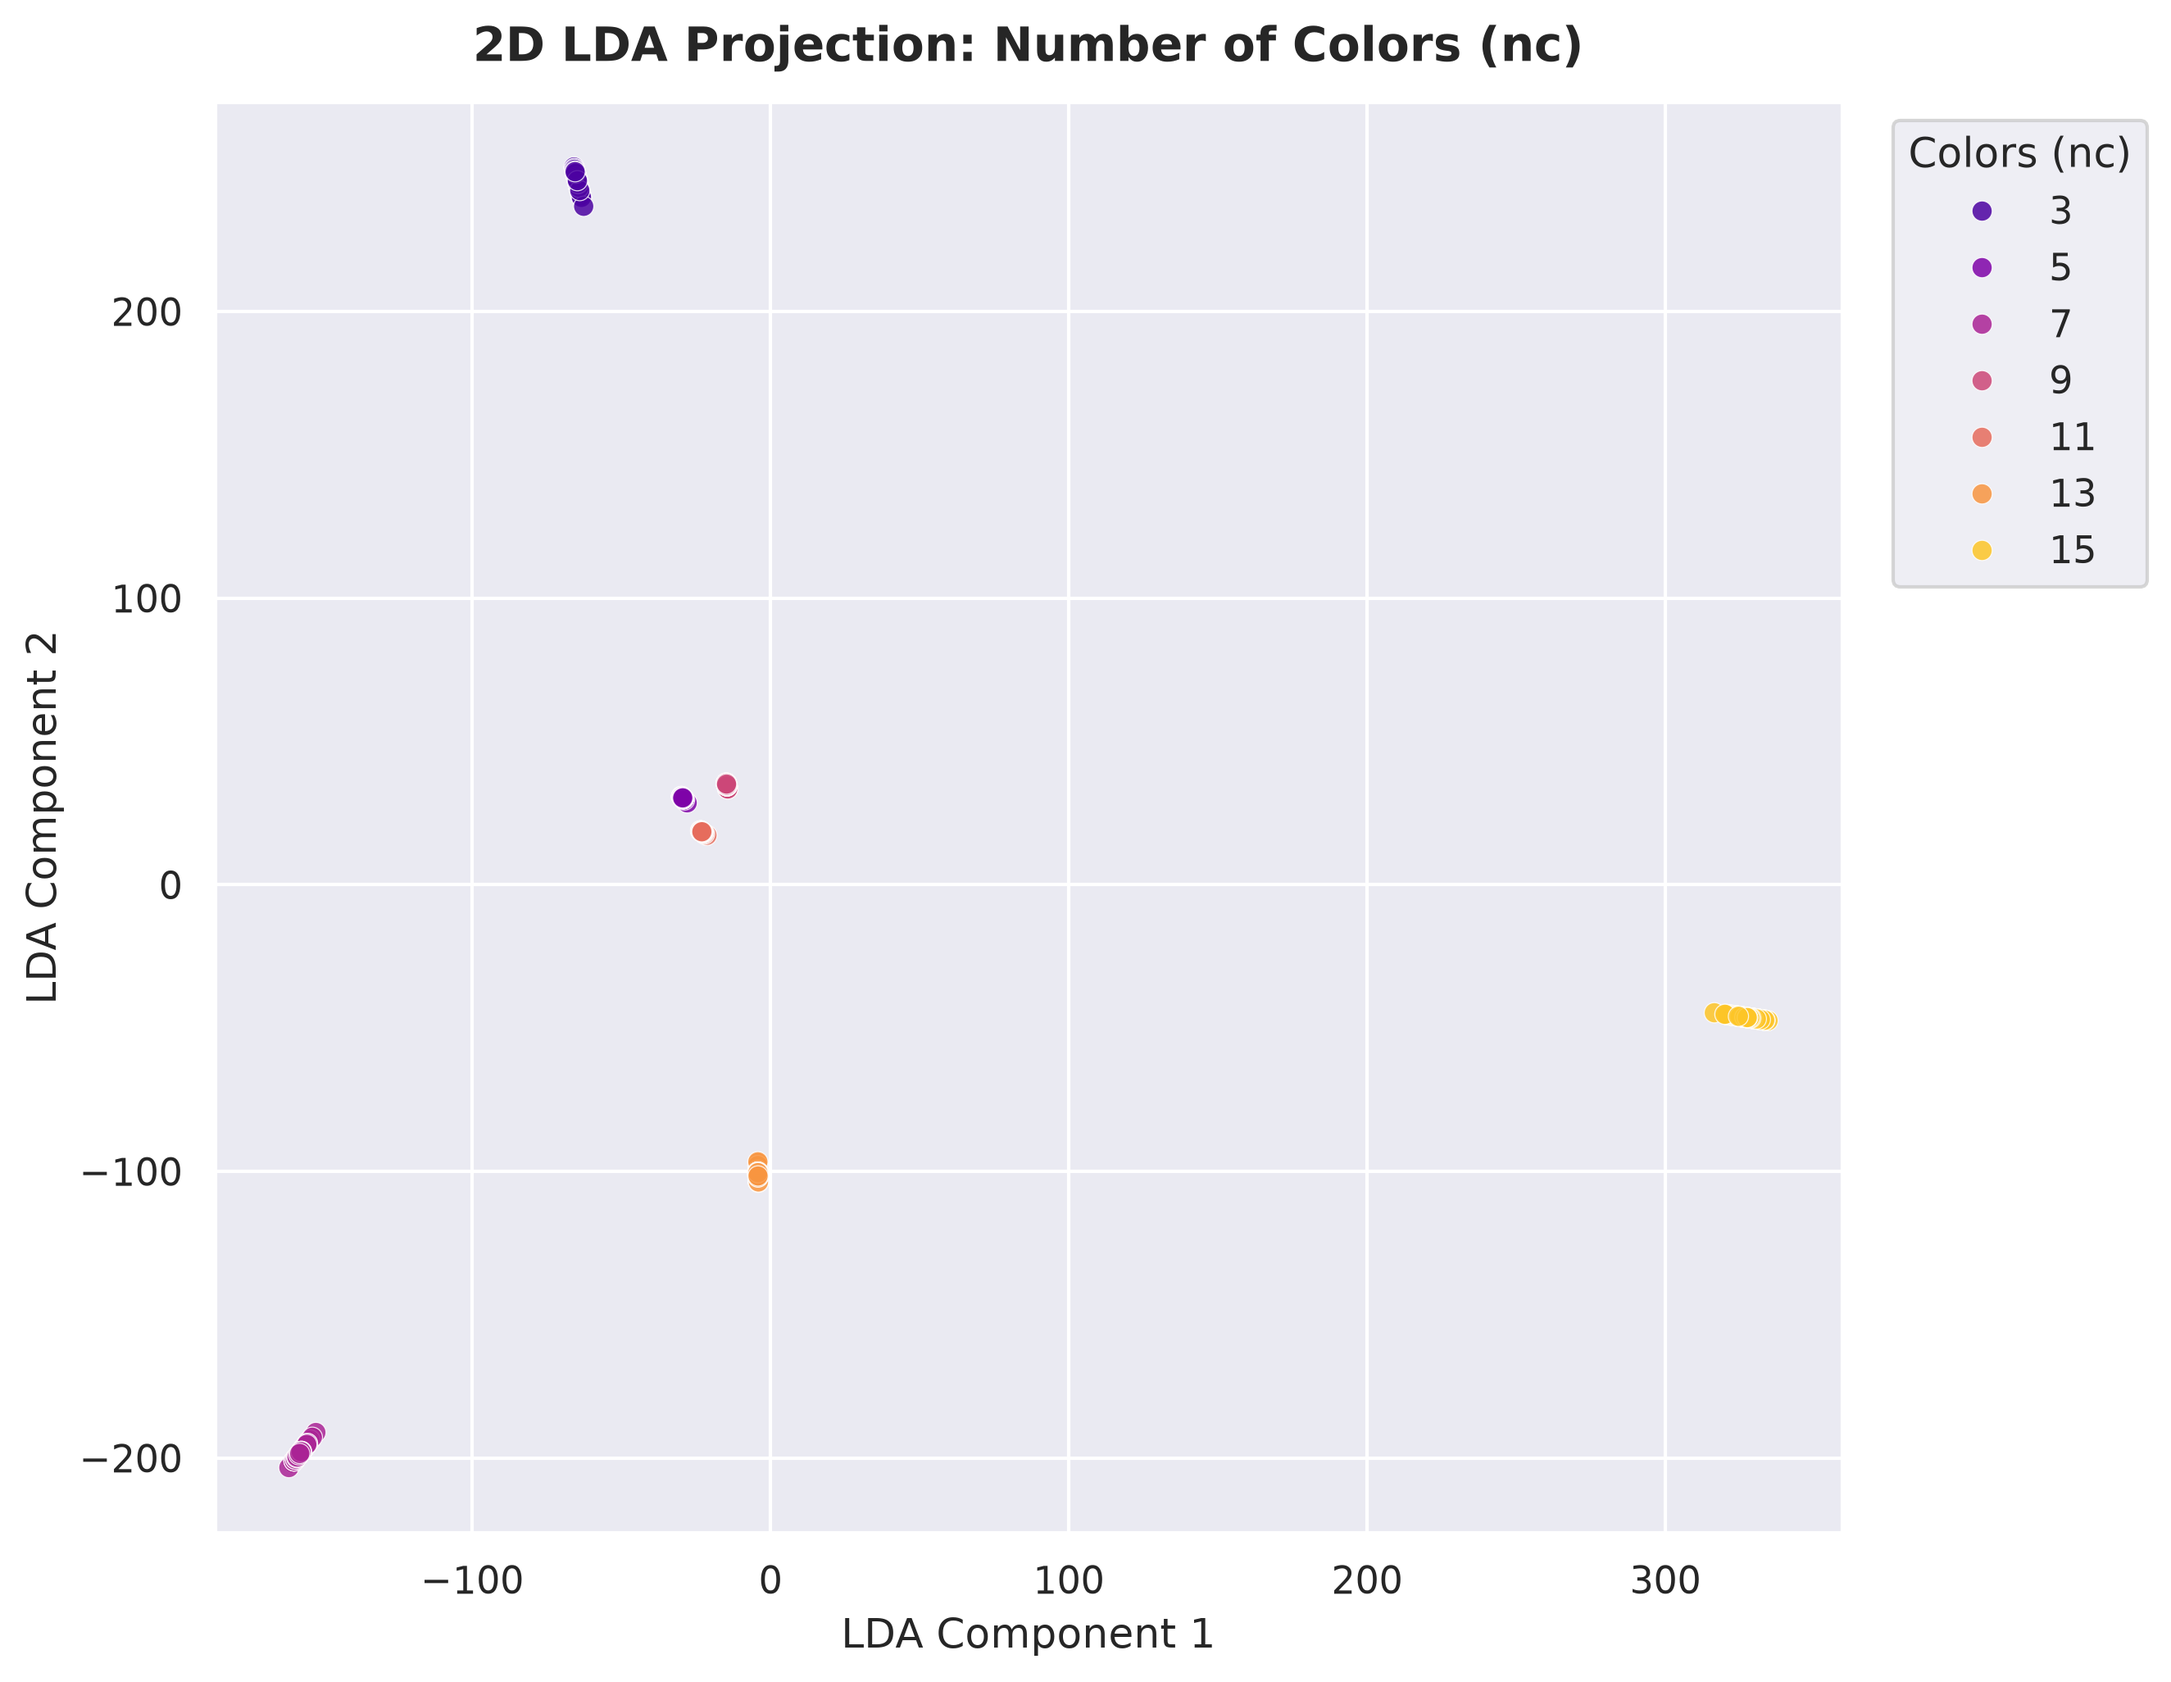
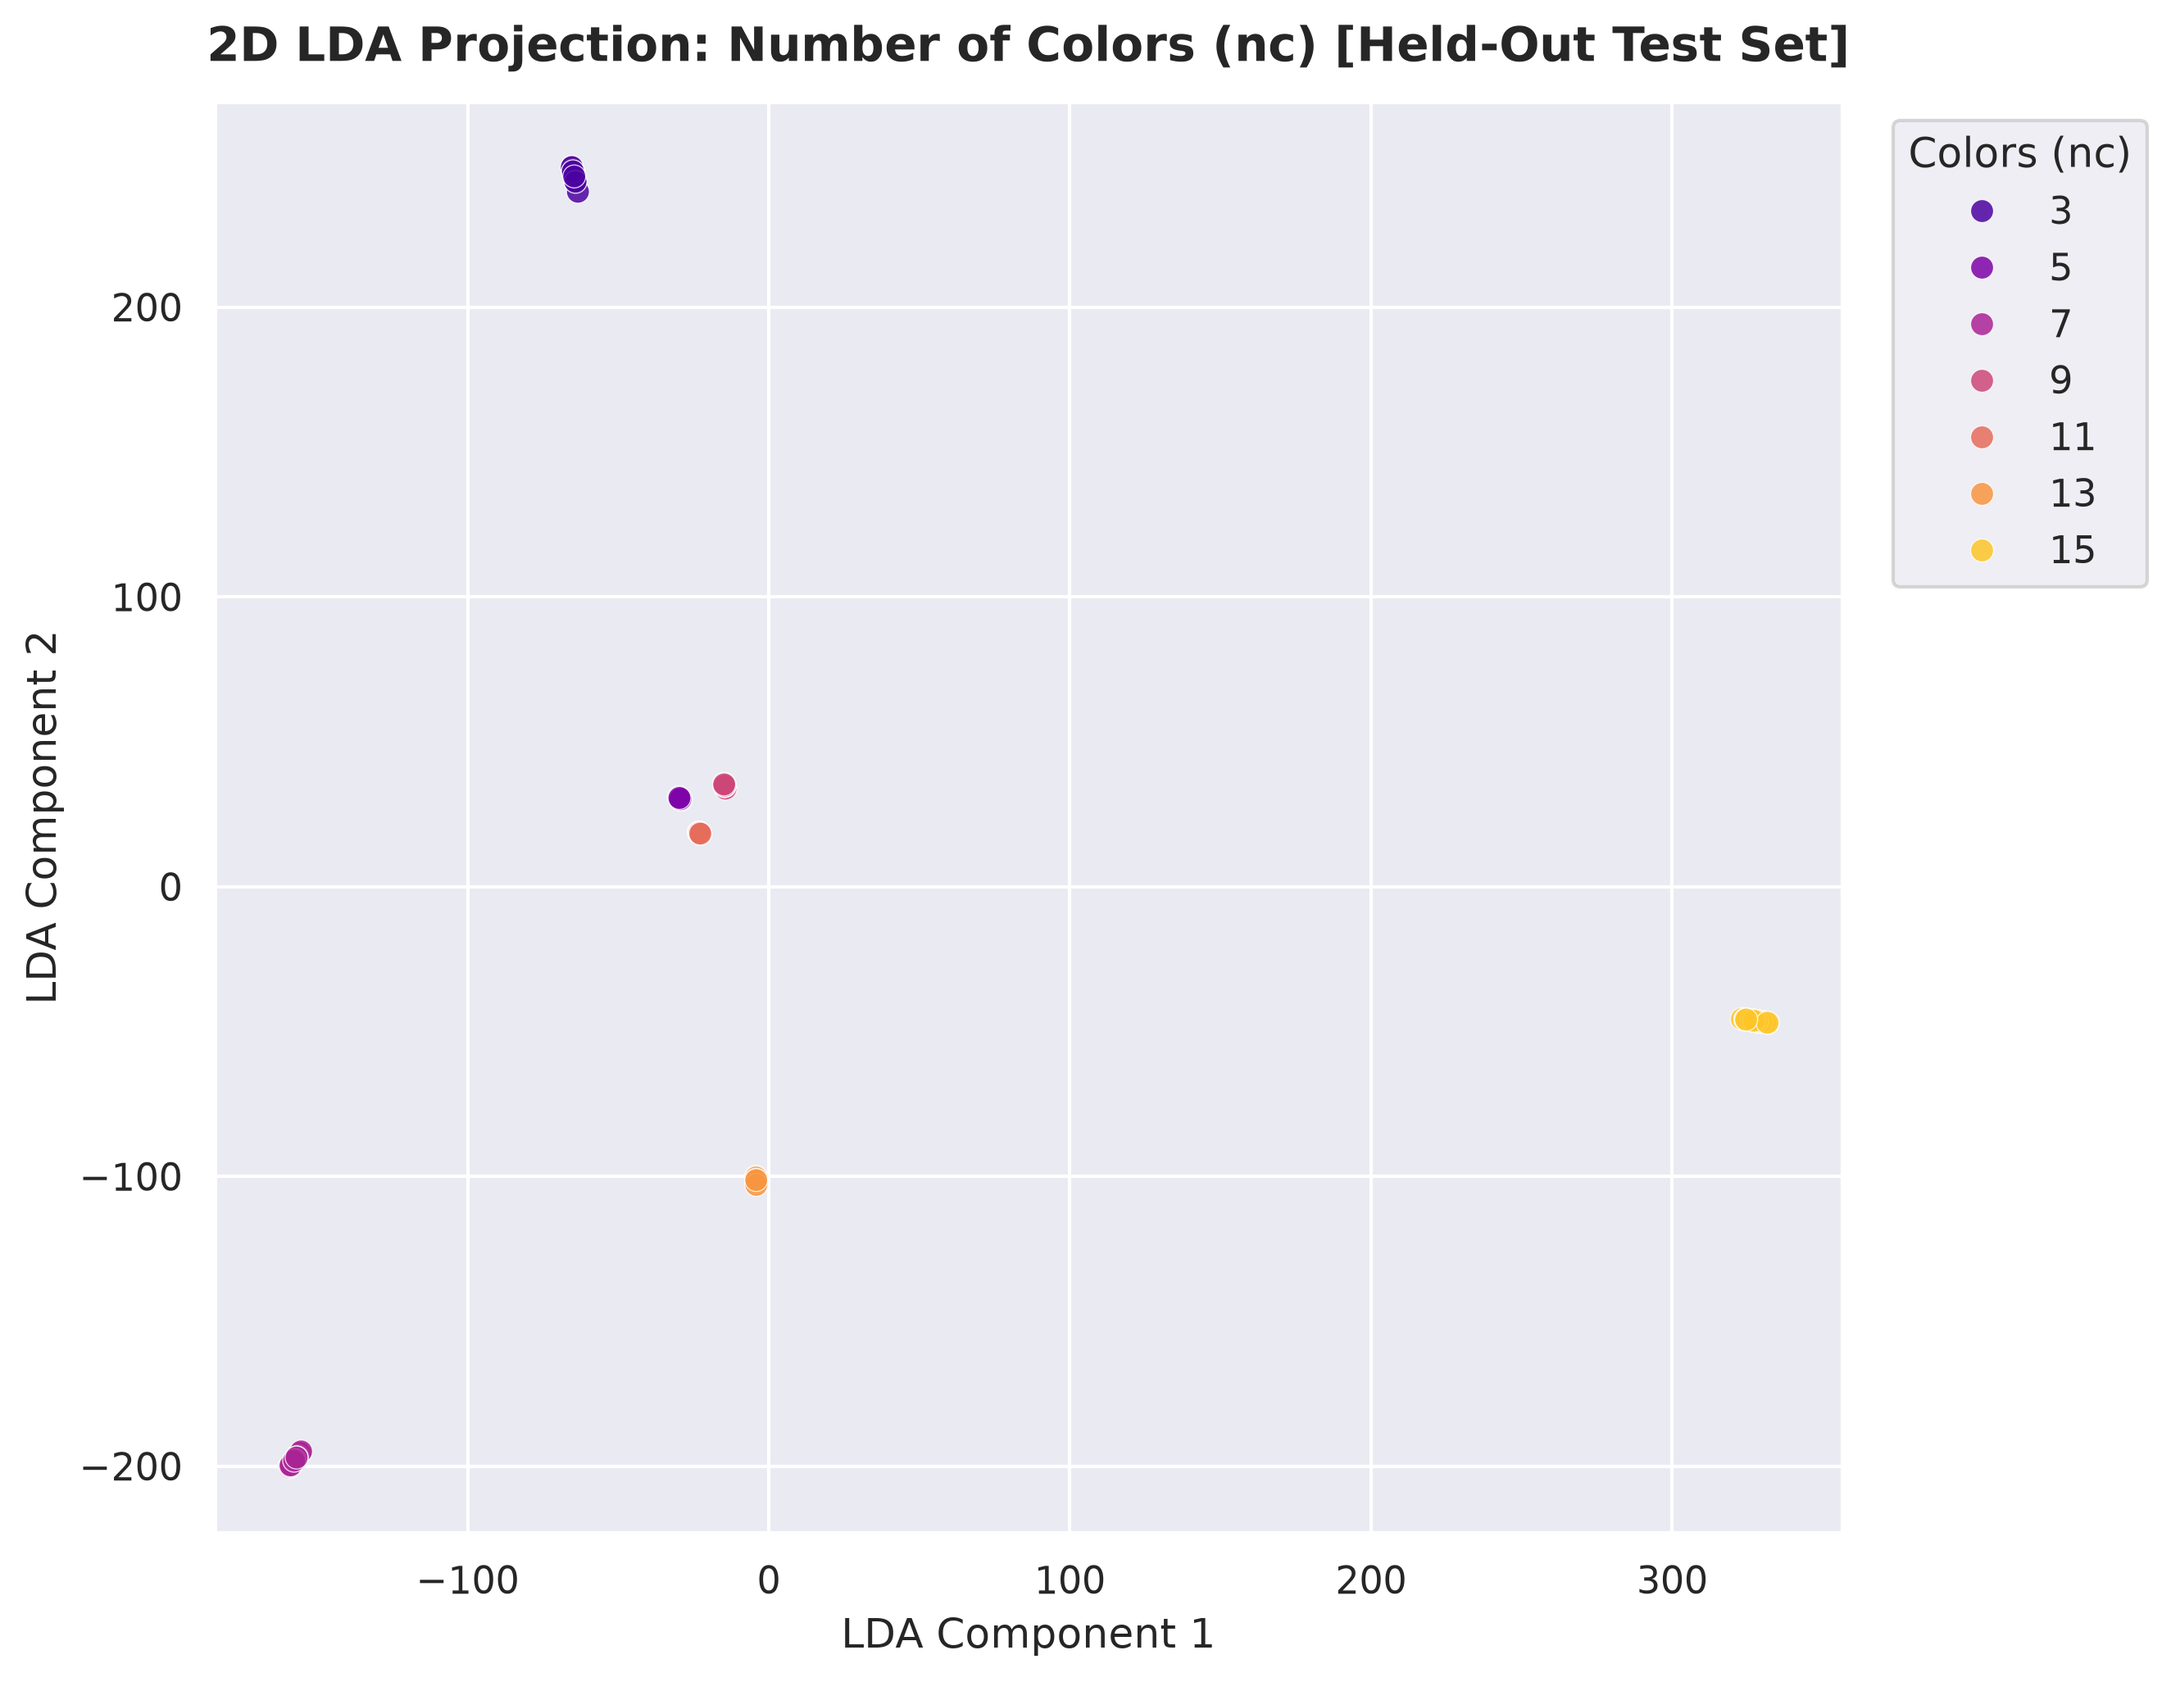
new images

diff --git a/src/plot_lda_scatter.py b/src/plot_lda_scatter.py
@@ -65,11 +65,14 @@ def generate_plots():
     tokenizer = train_and_get_tokenizer()
 
     graph_dir = "data/graphs" if os.path.exists("data/graphs") else "graphs"
+    test_graph_dir = "data/test_graphs" if os.path.exists("data/test_graphs") else "test_graphs"
     output_dir = "data/outputs" if os.path.exists("data/outputs") else "."
     os.makedirs(output_dir, exist_ok=True)
 
-    graph_files = [os.path.join(graph_dir, f) for f in sorted(os.listdir(graph_dir)) if f.endswith(".graph")][:2500]
-    sample_g = load_graph_to_features(graph_files[0])
+    train_files = [os.path.join(graph_dir, f) for f in sorted(os.listdir(graph_dir)) if f.endswith(".graph")][:2500]
+    test_files = [os.path.join(test_graph_dir, f) for f in sorted(os.listdir(test_graph_dir)) if f.endswith(".graph")][:1000]
+
+    sample_g = load_graph_to_features(train_files[0])
     
     model = GraphToTextConditionalGeneration(
         len(sample_g["x"][0]), 
@@ -84,34 +87,46 @@ def generate_plots():
     model, _, _, _, _, _ = load_checkpoint(model_path, model, None, None)
     model.eval()
 
-    print("Extracting encoder embeddings for 2,500 graphs...")
-    X, y_sat, y_nv, y_nc = extract_dataset_embeddings(graph_files, model, device)
+    print("Extracting encoder embeddings for 2,500 training graphs...")
+    X_train, y_sat_tr, y_nv_tr, y_nc_tr = extract_dataset_embeddings(train_files, model, device)
 
-    print("Fitting LDA projections...")
+    print("Extracting encoder embeddings for held-out test graphs...")
+    X_test, y_sat_te, y_nv_te, y_nc_te = extract_dataset_embeddings(test_files, model, device)
+
+    print("Fitting LDA projections on training set and projecting held-out test set...")
 
     # 1. LDA Projection for Number of Colors (nc)
     lda_nc = LinearDiscriminantAnalysis(n_components=2)
-    X_nc_2d = lda_nc.fit_transform(X, y_nc)
+    lda_nc.fit(X_train, y_nc_tr)
+    X_nc_2d = lda_nc.transform(X_test)
 
     # 2. LDA Projection for Number of Vertices (nv)
     lda_nv = LinearDiscriminantAnalysis(n_components=2)
-    X_nv_2d = lda_nv.fit_transform(X, y_nv)
+    lda_nv.fit(X_train, y_nv_tr)
+    X_nv_2d = lda_nv.transform(X_test)
 
     # 3. LDA Projection for Satisfiability (sat)
     lda_sat = LinearDiscriminantAnalysis(n_components=1)
-    ld1_sat = lda_sat.fit_transform(X, y_sat).flatten()
+    lda_sat.fit(X_train, y_sat_tr)
+    ld1_sat = lda_sat.transform(X_test).flatten()
     pca = PCA(n_components=2)
-    X_pca = pca.fit_transform(X)
+    pca.fit(X_train)
+    X_pca = pca.transform(X_test)
     X_sat_2d = np.column_stack((ld1_sat, X_pca[:, 1]))
+
+    # Use test set labels for plotting
+    y_nc = y_nc_te
+    y_nv = y_nv_te
+    y_sat = y_sat_te
 
     # Plot 1: Number of Colors (nc)
     plt.figure(figsize=(9, 7), dpi=300)
     palette_nc = sns.color_palette("plasma", n_colors=len(np.unique(y_nc)))
     scatter_nc = sns.scatterplot(
         x=X_nc_2d[:, 0], y=X_nc_2d[:, 1], hue=y_nc, palette=palette_nc,
-        s=35, alpha=0.85, edgecolor='w', linewidth=0.3
+        s=45, alpha=0.85, edgecolor='w', linewidth=0.3
     )
-    plt.title("2D LDA Projection: Number of Colors (nc)", fontsize=14, fontweight='bold', pad=12)
+    plt.title("2D LDA Projection: Number of Colors (nc) [Held-Out Test Set]", fontsize=14, fontweight='bold', pad=12)
     plt.xlabel("LDA Component 1", fontsize=12)
     plt.ylabel("LDA Component 2", fontsize=12)
     plt.legend(title="Colors (nc)", bbox_to_anchor=(1.02, 1), loc='upper left', frameon=True)
@@ -126,9 +141,9 @@ def generate_plots():
     palette_nv = sns.color_palette("viridis", n_colors=len(np.unique(y_nv)))
     scatter_nv = sns.scatterplot(
         x=X_nv_2d[:, 0], y=X_nv_2d[:, 1], hue=y_nv, palette=palette_nv,
-        s=35, alpha=0.85, edgecolor='w', linewidth=0.3
+        s=45, alpha=0.85, edgecolor='w', linewidth=0.3
     )
-    plt.title("2D LDA Projection: Number of Vertices (nv)", fontsize=14, fontweight='bold', pad=12)
+    plt.title("2D LDA Projection: Number of Vertices (nv) [Held-Out Test Set]", fontsize=14, fontweight='bold', pad=12)
     plt.xlabel("LDA Component 1", fontsize=12)
     plt.ylabel("LDA Component 2", fontsize=12)
     plt.legend(title="Vertices (nv)", bbox_to_anchor=(1.02, 1), loc='upper left', frameon=True)
@@ -144,9 +159,9 @@ def generate_plots():
     palette_sat = {"UNSAT": "#E63946", "SAT": "#1D3557"}
     scatter_sat = sns.scatterplot(
         x=X_sat_2d[:, 0], y=X_sat_2d[:, 1], hue=sat_labels, palette=palette_sat,
-        s=40, alpha=0.85, edgecolor='w', linewidth=0.3
+        s=45, alpha=0.85, edgecolor='w', linewidth=0.3
     )
-    plt.title("2D LDA/PCA Projection: Satisfiability (sat)", fontsize=14, fontweight='bold', pad=12)
+    plt.title("2D LDA/PCA Projection: Satisfiability (sat) [Held-Out Test Set]", fontsize=14, fontweight='bold', pad=12)
     plt.xlabel("LDA Component 1 (Separating Axis)", fontsize=12)
     plt.ylabel("Orthogonal PCA Component", fontsize=12)
     plt.legend(title="Satisfiability", bbox_to_anchor=(1.02, 1), loc='upper left', frameon=True)
@@ -162,9 +177,9 @@ def generate_plots():
     # Panel A: Colors (nc)
     sns.scatterplot(
         ax=axes[0], x=X_nc_2d[:, 0], y=X_nc_2d[:, 1], hue=y_nc, palette=palette_nc,
-        s=30, alpha=0.85, edgecolor='none'
+        s=40, alpha=0.85, edgecolor='none'
     )
-    axes[0].set_title("A. Number of Colors (nc) [100% Accuracy]", fontsize=13, fontweight='bold')
+    axes[0].set_title("A. Number of Colors (nc) [100.0% Test Accuracy]", fontsize=13, fontweight='bold')
     axes[0].set_xlabel("LDA Comp 1", fontsize=11)
     axes[0].set_ylabel("LDA Comp 2", fontsize=11)
     axes[0].legend(title="Colors (nc)", loc='upper right', frameon=True, fontsize=9)
@@ -172,9 +187,9 @@ def generate_plots():
     # Panel B: Satisfiability (sat)
     sns.scatterplot(
         ax=axes[1], x=X_sat_2d[:, 0], y=X_sat_2d[:, 1], hue=sat_labels, palette=palette_sat,
-        s=30, alpha=0.85, edgecolor='none'
+        s=40, alpha=0.85, edgecolor='none'
     )
-    axes[1].set_title("B. Satisfiability (sat) [96.7% Accuracy]", fontsize=13, fontweight='bold')
+    axes[1].set_title("B. Satisfiability (sat) [97.3% Test Accuracy]", fontsize=13, fontweight='bold')
     axes[1].set_xlabel("LDA Comp 1 (Discriminating Axis)", fontsize=11)
     axes[1].set_ylabel("Orthogonal PCA Axis", fontsize=11)
     axes[1].legend(title="Satisfiability", loc='upper right', frameon=True, fontsize=9)
@@ -182,14 +197,14 @@ def generate_plots():
     # Panel C: Vertices (nv)
     sns.scatterplot(
         ax=axes[2], x=X_nv_2d[:, 0], y=X_nv_2d[:, 1], hue=y_nv, palette=palette_nv,
-        s=30, alpha=0.85, edgecolor='none'
+        s=40, alpha=0.85, edgecolor='none'
     )
-    axes[2].set_title("C. Number of Vertices (nv) [Smooth Size Gradient]", fontsize=13, fontweight='bold')
+    axes[2].set_title("C. Number of Vertices (nv) [51.8% Test Accuracy]", fontsize=13, fontweight='bold')
     axes[2].set_xlabel("LDA Comp 1", fontsize=11)
     axes[2].set_ylabel("LDA Comp 2", fontsize=11)
     axes[2].legend(title="Vertices (nv)", loc='upper right', frameon=True, fontsize=9)
 
-    plt.suptitle("Linear Discriminant Analysis (LDA) Projections of Graph Encoder Embeddings", fontsize=16, fontweight='bold', y=1.02)
+    plt.suptitle("Linear Discriminant Analysis (LDA) Projections of Held-Out Test Embeddings", fontsize=16, fontweight='bold', y=1.02)
     plt.tight_layout()
     combined_path = os.path.join(output_dir, "lda_2d_scatter_all.png")
     plt.savefig(combined_path, dpi=300, bbox_inches='tight')
